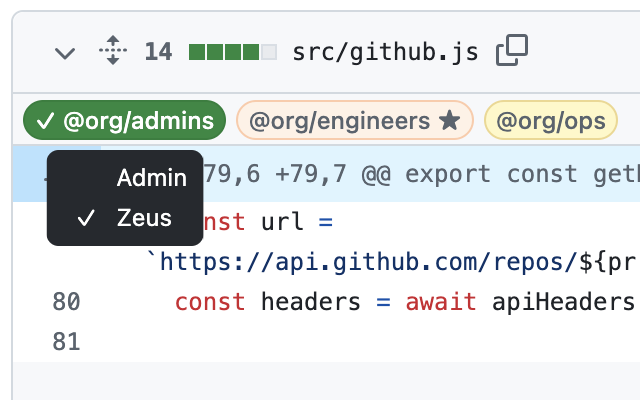
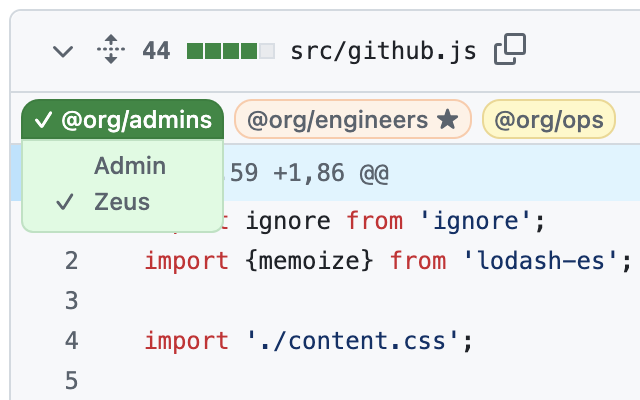
Update readme & screenshots

diff --git a/README.md b/README.md
@@ -12,8 +12,8 @@ Decorate PR file headers with labels showing the owners who must approve that fi
 - Owner labels of teams that you're a member of are shown in red and have a star (★)
 - Owner labels of teams that have already approved are shown in green and have a checkmark (✓)
 - The star becomes lighter in your own teams that have approved (☆)
-- Hovering on an owner label shows a tooltip with the members of that team
-- Clicking an owner label expands all the files with that owner, and collapses the others
+- Hovering on an owner label shows a drawer with the members of that team
+- Clicking an owner label highlights that owner label in all file headers
 
 Does not require a GitHub access token
 
